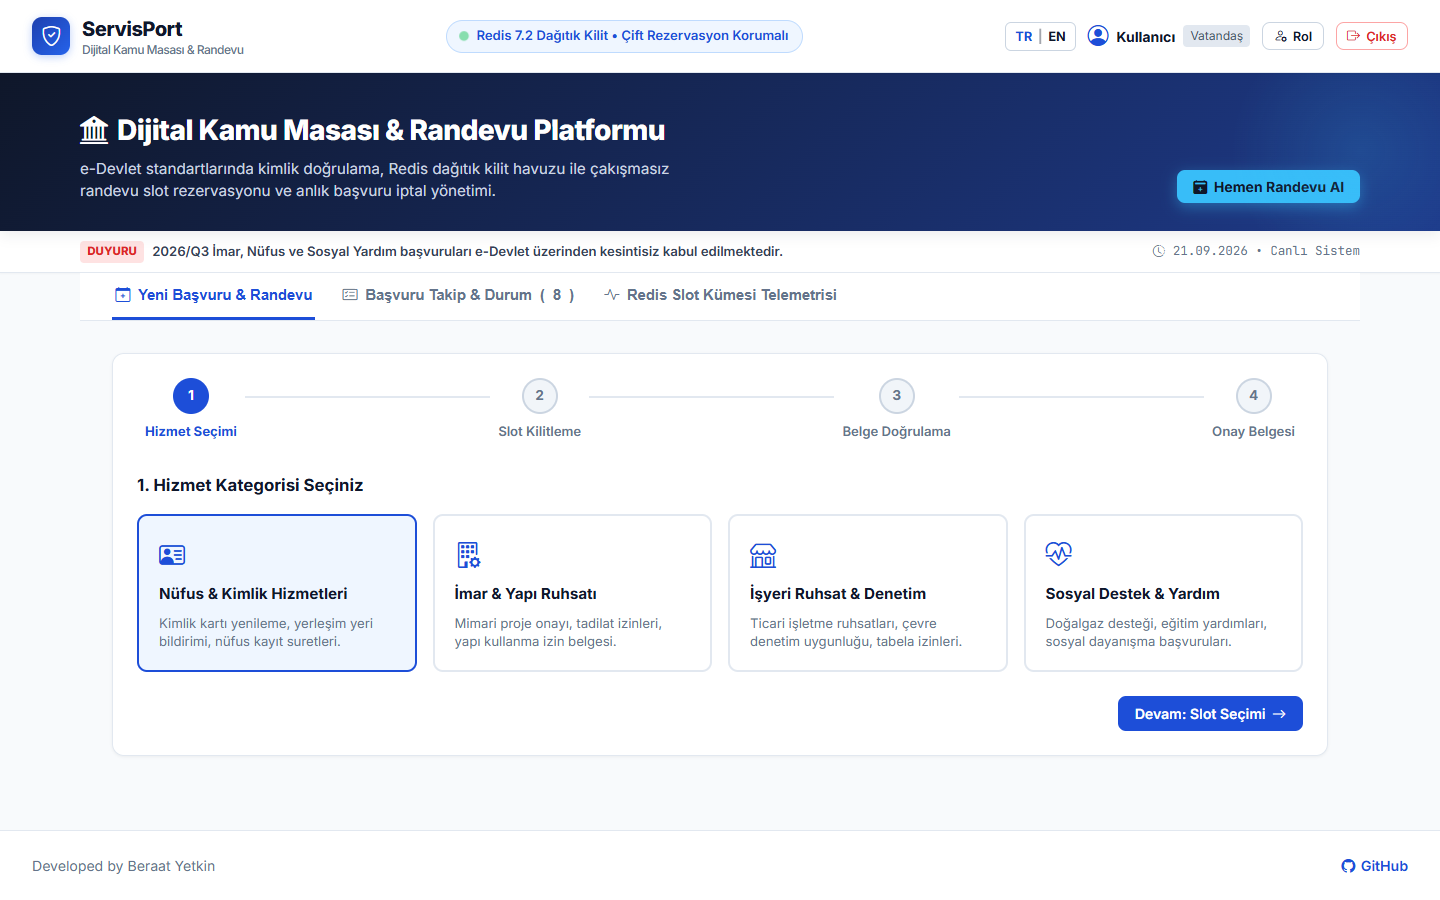
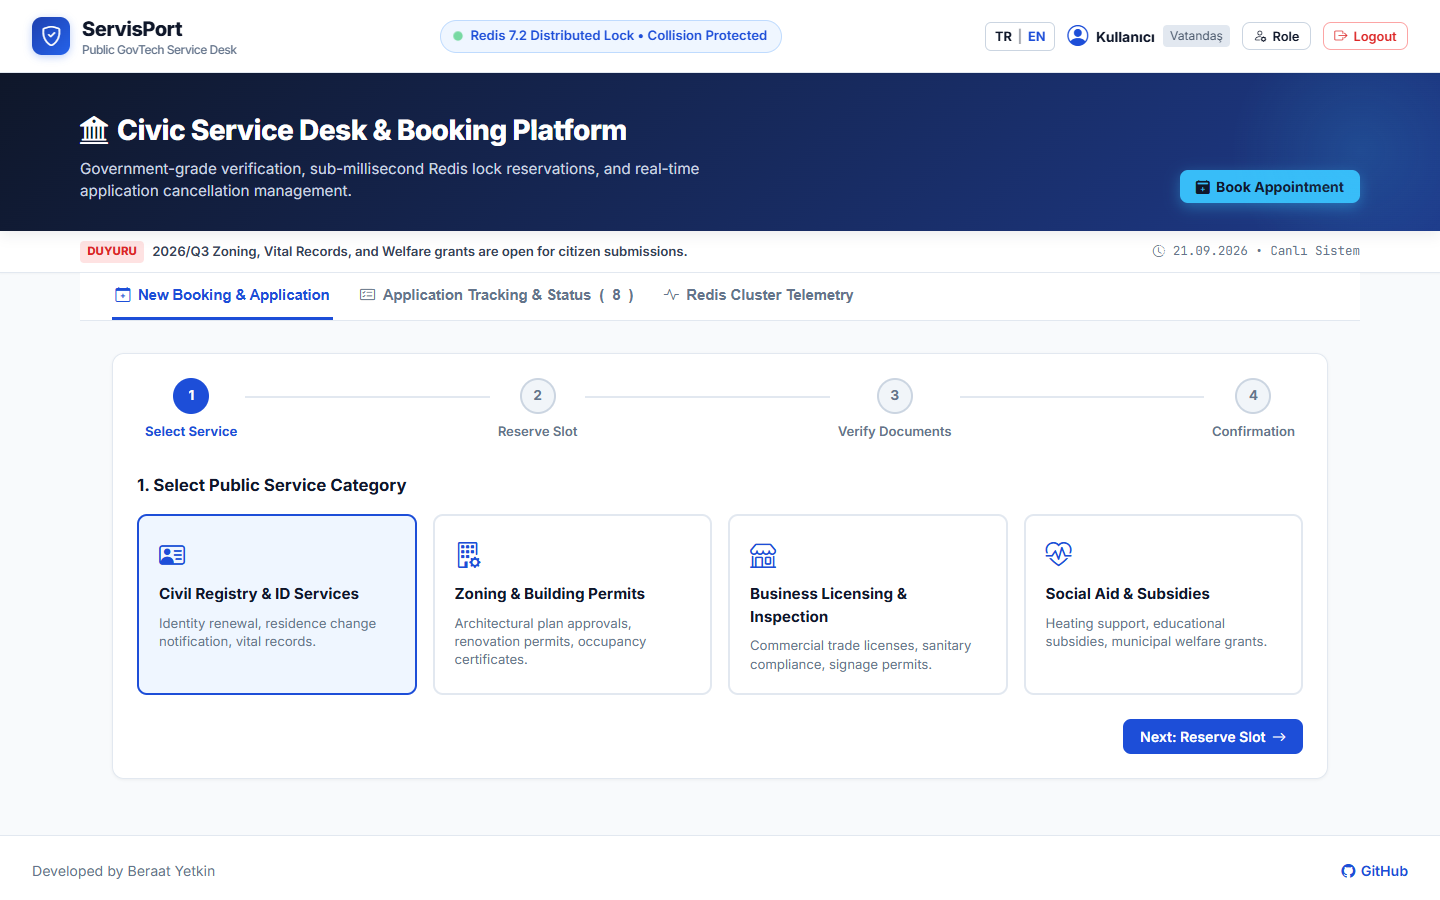
docs: clean English documentation without emojis, English screenshots and default locale

diff --git a/index.html b/index.html
@@ -1136,7 +1136,7 @@
   </div>
 
   <script>
-    let currentLang = localStorage.getItem('servisport_lang') || 'tr';
+    let currentLang = localStorage.getItem('servisport_lang') || 'en';
 
     let currentUser = JSON.parse(localStorage.getItem('sp_user')) || {
       name: 'Kullanıcı',

diff --git a/README.md b/README.md
@@ -1,108 +1,108 @@
-# ServisPort 🏛
-> **Kamu Hizmet Masası & Randevu Portalı • GovTech E-Devlet & Redis Dağıtık Kilit Mimarisi**
+# ServisPort
+> Public GovTech Service Desk & Appointment Platform • Redis Distributed Lock Architecture
 
-[![Canlı Demo](https://img.shields.io/badge/Canl%C4%B1_Demo-servisport.web.app-0f766e?style=for-the-badge&logo=google-chrome&logoColor=white)](https://servisport.web.app)
-[![Lisans](https://img.shields.io/badge/Lisans-MIT-blue.svg?style=for-the-badge)](LICENSE)
-[![Teknoloji](https://img.shields.io/badge/Teknoloji-Vanilla_ES6%2B_No_Framework-yellow?style=for-the-badge&logo=javascript)](https://developer.mozilla.org)
-[![Arayüz](https://img.shields.io/badge/Tasar%C4%B1m-Civic_Desk_GovTech-042f2e?style=for-the-badge&logo=css3)](https://developer.mozilla.org)
-[![Dil](https://img.shields.io/badge/Dil-T%C3%BCrk%C3%A7e_%7C_English-green?style=for-the-badge)](https://servisport.web.app)
-
----
-
-## 📸 Canlı Önizleme (Previews)
-
-### 1. Dijital Kamu Masası & 4 Adımlı Randevu Portalı
-Üstte duyuru bandı (`.civic-bulletin-bar`) ve hero arama alanı (`.civic-hero`), 4 ana kamu hizmet kartı, Redis kilit havuzlu randevu sihirbazı, canlı başvuru takip tablosu ve **Başvuruyu İptal Et / Sil** aksiyonu:
-![ServisPort Kamu Masası Önizleme](docs/preview-dashboard.png)
-
-### 2. Resmi E-Belediye Kamu Masası Giriş Portalı
-T.C. Akıllı Belediyecilik bilgi sistemi başlık bandı, 256-Bit SSL ve KVKK güvenlik mührü, T.C. Kimlik / e-Devlet giriş alanları ve hazır roller:
-![ServisPort Login Önizleme](docs/preview-login.png)
+[![Live Demo](https://img.shields.io/badge/Live_Demo-servisport.web.app-0f766e?style=for-the-badge)](https://servisport.web.app)
+[![License](https://img.shields.io/badge/License-MIT-blue.svg?style=for-the-badge)](LICENSE)
+[![Technology](https://img.shields.io/badge/Technology-Vanilla_ES6%2B-yellow?style=for-the-badge)](https://developer.mozilla.org)
+[![Interface](https://img.shields.io/badge/Interface-Civic_Desk_GovTech-042f2e?style=for-the-badge)](https://developer.mozilla.org)
+[![Language Support](https://img.shields.io/badge/Language-English_%7C_Turkish-green?style=for-the-badge)](https://servisport.web.app)
 
 ---
 
-## 🌟 Öne Çıkan Özellikler
+## Previews
 
-### 1. Sektöre Özgü GovTech Kamu Masası Mimarisi
-- **Civic Desk Kurumsal Mimarisi**:
-  - Üstte canlı duyuru akışı (`2026/Q3 İmar, Nüfus ve Sosyal Yardım başvuruları kabul edilmektedir`).
-  - 4 büyük hizmet kategorisi (*Nüfus & Kimlik*, *İmar & Yapı Ruhsatı*, *İşyeri Ruhsat & Denetim*, *Sosyal Destek & Yardım*).
-- **Redis 7.2 Dağıtık Kilit (Distributed Lock) Simülasyonu**:
-  - Vatandaş bir saat aralığı seçtiğinde `SETNX` & `EXPIRE` komutlarıyla 10 dakikalık kilit rezerve edilir; çift rezervasyon (race condition) donanım seviyesinde engellenir.
-  - Canlı Redis olay akışı ve gecikme (latency) telemetrisi.
+### 1. Civic Service Desk & Multi-Step Booking Portal
+Top announcement ticker, hero discovery area, 4 public service categories, Redis lock-protected appointment wizard, application tracking table, and cancellation/deletion actions:
+![ServisPort Civic Desk Preview](docs/preview-dashboard.png)
 
-### 2. Vatandaş Başvurusunu İptal Etme & Silme Mekanizması
-- **Başvuruyu İptal Et / Sil (`promptDeleteApplication`)**: Başvuru takip tablosunda her kaydın yanında kırmızı çöp kutusu butonu yer alır.
-- **Onay Modalı (`#deleteAppModal`)**: Başvuru referans koduyla onay penceresi açılır.
-- **Redis Kilit Havuzuna İade**: Başvuru silindiğinde rezerve edilen randevu slotu Redis havuzuna anında iade edilir, başvuru sayaçları düşürülür ve `localStorage` (`sp_apps_v2`) senkronize edilir.
-
-### 3. Oturum Kalıcılığı (Session Persistence) & Zero-Flicker Başlangıç
-- **Sayfa Yenilemelerinde Oturumu Hatırla**: Giriş onaylandığında `localStorage.setItem('sp_logged_in', 'true')` kaydı işlenir.
-- **Sıfır Titreme (Zero-Flicker)**: Sayfa yenilendiğinde (F5) inline script kontrolü sayesinde giriş ekranı hiç açılmadan doğrudan kamu masası gelir.
-- **Güvenli Çıkış**: Sağ üstteki kırmızı **"Çıkış"** butonuna basıldığında oturum sonlandırılır.
-- **Hazır Demo Bilgileri**: Giriş ekranında T.C. kimlik / e-posta ve şifre hazır girili gelir; altındaki hızlı rol butonlarıyla (`Kayıtlı Vatandaş`, `Kurumsal Müşteri / Esnaf`, `Birim Sorumlusu`) anında rol değiştirilebilir.
-
-### 4. Çift Dilli Tam Destek (TR | EN)
-- Sağ üstteki `[ TR | EN ]` dil seçici ile tüm kamu hizmet adları, randevu adımları, form etiketleri ve belediye duyuruları dinamik olarak çevrilir.
-- Başlangıç varsayılan dili **Türkçe**'dir.
+### 2. Official Civic Desk Login Portal
+Official municipal crest header, 256-bit SSL and compliance trust badge, National ID / credentials inputs, and role presets:
+![ServisPort Login Preview](docs/preview-login.png)
 
 ---
 
-## 🛠 Teknoloji Yığını (Tech Stack)
+## Key Features
 
-| Katman | Teknoloji | Görevi |
+### Civic Desk GovTech Architecture
+- Civic Service Desk:
+  - Real-time bulletin ticker displaying open municipal grants and zoning announcements.
+  - 4 major public service categories: Civil Registry & ID, Zoning & Building Permits, Business Licensing, and Social Welfare Grants.
+- Redis 7.2 Distributed Lock Simulation:
+  - Selecting an appointment time slot executes distributed lock commands (SETNX, EXPIRE) with a 10-minute TTL, eliminating double-booking and race conditions.
+  - Live Redis event stream and lock latency telemetry.
+
+### Citizen Application Cancellation & Deletion Mechanism
+- Dedicated delete action on every registered record triggering an explicit confirmation dialog.
+- Slot release: deleting an application immediately purges the record, re-allocates the reserved time slot back to the Redis lock pool, and updates tracking counts.
+- LocalStorage persistence keeps canceled bookings purged across sessions.
+
+### Session Persistence & Zero-Flicker Initialization
+- Remembers citizen or administrative clearance state across browser reloads via localStorage.
+- Inline check prevents login modal flashes during initial page load.
+- Secure sign-out action clears active session data and returns to the municipal login portal.
+- Pre-filled demo credentials with instant role switches (Registered Citizen, Corporate Client / Merchant, Desk Officer).
+
+### Bilingual Support (English | Turkish)
+- Instant language toggle switching all municipal service titles, booking step instructions, form fields, and announcements.
+- Default language is English.
+
+---
+
+## Tech Stack
+
+| Layer | Technology | Role |
 | :--- | :--- | :--- |
-| **Arayüz (UI)** | HTML5, CSS3 GovTech Turkuazı | E-Devlet ve akıllı belediyecilik görsel dili, 4 adımlı form |
-| **İş Mantığı** | Vanilla JavaScript (ES6+) | Dağıtık kilit havuzu mantığı, başvuru takip algoritması |
-| **İkonlar** | Bootstrap Icons v1.11.3 | Kamu, kimlik ve güvenlik simgeleri |
-| **Depolama** | HTML5 `localStorage` | Başvuru kayıtları, oturum durumu ve dil ayarları |
-| **Yayın** | Firebase Hosting | Yüksek erişilebilirlikli HTTPS kamu barındırması |
+| UI & Layout | HTML5, CSS3 GovTech Palette | Modern civic portal visual hierarchy, 4-step wizard |
+| Business Logic | Vanilla JavaScript (ES6+) | Distributed lock pool logic, application tracking |
+| Icons | Bootstrap Icons v1.11.3 | Public service and verification icons |
+| Storage | HTML5 localStorage | Application records, session state, language preferences |
+| Hosting | Firebase Hosting | High-availability HTTPS hosting |
 
 ---
 
-## 📁 Proje Dizin Yapısı
+## Directory Structure
 
 ```
 ServisPort/
-├── index.html              # Kamu masası ve e-belediye giriş portalı
-├── docs/                   # Dokümantasyon ve ekran görüntüleri
-│   ├── preview-dashboard.png # Kamu hizmet masası yüksek çözünürlüklü önizleme
-│   └── preview-login.png     # Resmi kamu giriş ekranı önizleme
-└── README.md               # Proje dokümantasyonu
+├── index.html              # Complete single-page application
+├── docs/                   # Documentation assets and screenshots
+│   ├── preview-dashboard.png # High-resolution service desk preview
+│   └── preview-login.png     # High-resolution login portal preview
+└── README.md               # Project documentation
 ```
 
 ---
 
-## ⚡ Hızlı Başlangıç (Local Setup)
+## Getting Started
 
-1. Depoyu klonlayın:
+1. Clone the repository:
    ```bash
    git clone https://github.com/kubrvk/ServisPort.git
    cd ServisPort
    ```
-2. `index.html` dosyasını tarayıcınızda açın:
+2. Open `index.html` directly in your browser:
    ```bash
    start index.html
    ```
-3. Alternatif yerel HTTP sunucusu ile çalıştırmak için:
+3. Alternatively, serve with any local HTTP server:
    ```bash
    npx serve .
    ```
-4. Tarayıcınızda açılan adrese gidin.
-   - *Giriş ekranını atlayıp doğrudan kamu masasını açmak için:* `http://localhost:3000/?demo=1`
+4. Access `http://localhost:3000` in your browser.
+   - To bypass login and view the desk directly: `http://localhost:3000/?demo=1`
 
 ---
 
-## 🌐 Canlı Sistem
+## Live System
 
-- **Canlı URL**: [https://servisport.web.app](https://servisport.web.app)
-- **Doğrudan Demo Bağlantısı**: [https://servisport.web.app/?demo=1](https://servisport.web.app/?demo=1)
+- Live URL: [https://servisport.web.app](https://servisport.web.app)
+- Direct Dashboard Link: [https://servisport.web.app/?demo=1](https://servisport.web.app/?demo=1)
 
 ---
 
-## 👤 Geliştirici
+## Author
 
-**Developed by Beraat Yetkin**
+Developed by Beraat Yetkin
 - GitHub: [@kubrvk](https://github.com/kubrvk)
-- Proje Deposu: [ServisPort](https://github.com/kubrvk/ServisPort)
-- Portfolyo: [Beraat Yetkin Portfolio](https://github.com/kubrvk/portfolio)
+- Repository: [ServisPort](https://github.com/kubrvk/ServisPort)
+- Portfolio: [Beraat Yetkin Portfolio](https://github.com/kubrvk/portfolio)
